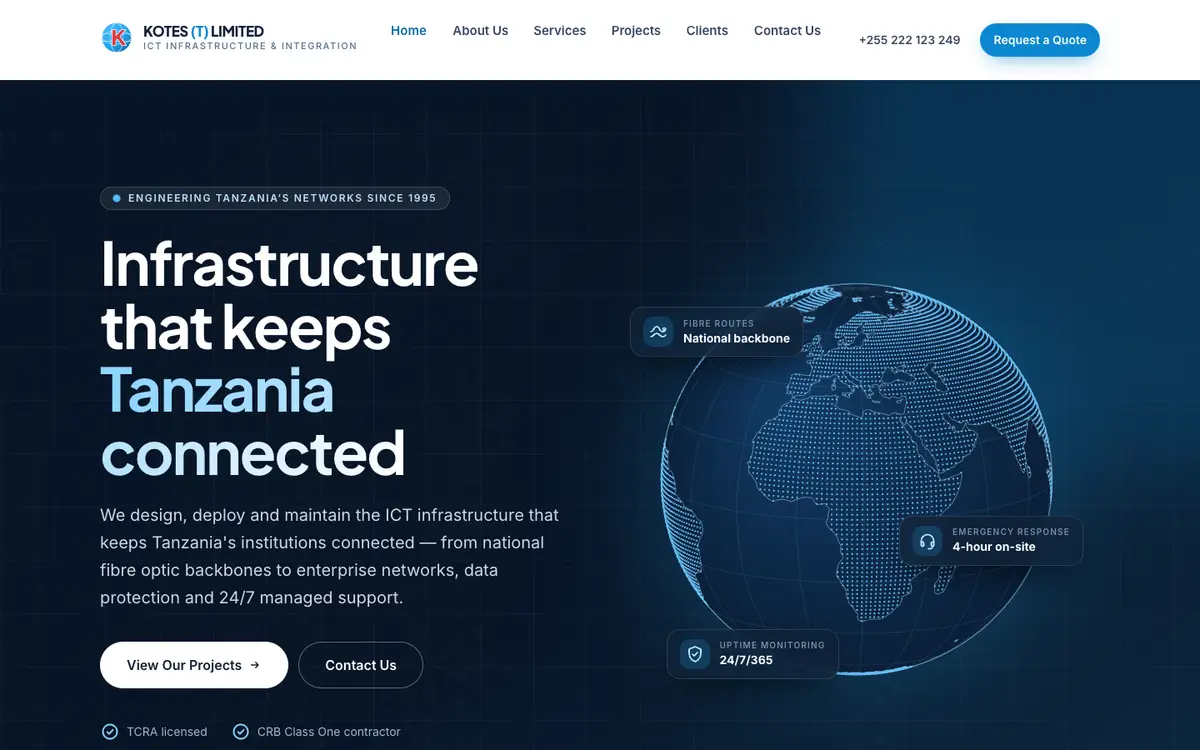
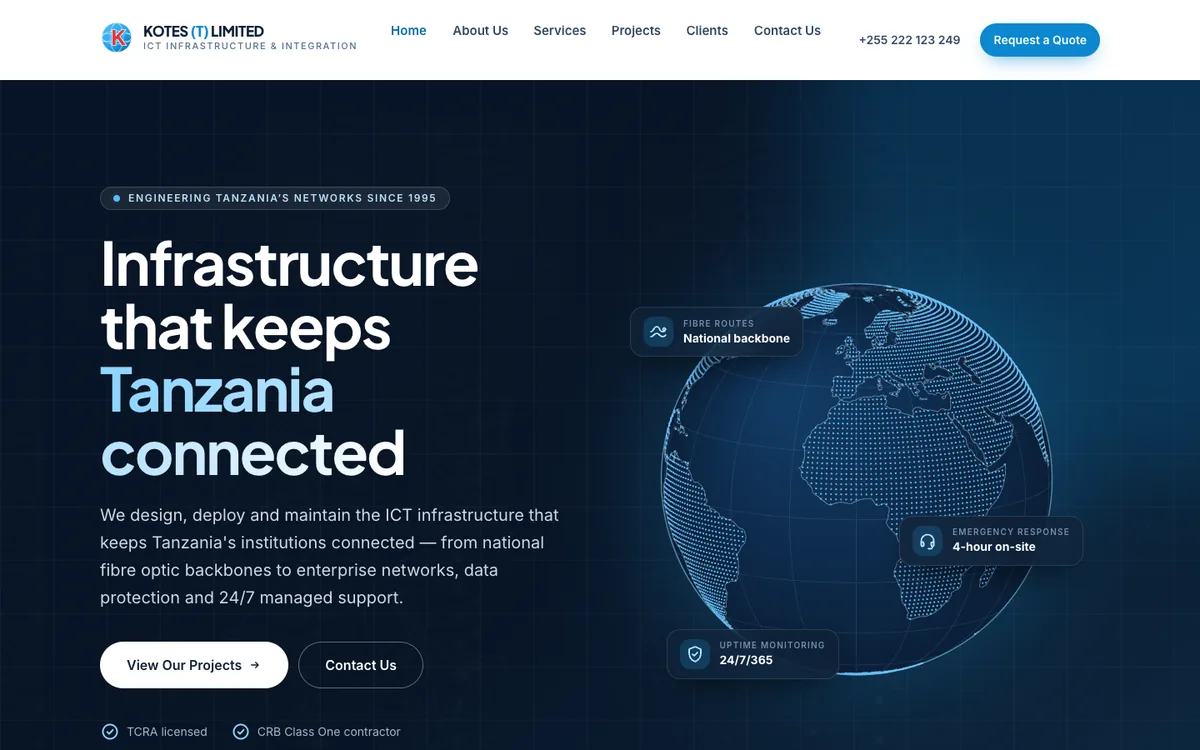
/nino: retake the twelve live site pictures (new ORA and the rest); real-time capture script

Changed region(s): [[0.6167, 0.368, 0.8942, 0.828], [0.5242, 0.4907, 0.6167, 0.828], [0.5858, 0.46, 0.6167, 0.4907]]

diff --git a/client/src/pages/nino.work.js b/client/src/pages/nino.work.js
@@ -4,9 +4,12 @@
  * Ported from the same list on the Vegas Luxury Hotel site
  * (Vegas/src/app/nino/work.ts) so the two cannot drift apart — every line
  * comes from the project's own live site or from Nino, nothing invented.
- * Screenshots in /public/nino are the live home pages, taken 2026-10-05;
- * Hao Labs and Super Drive were added 2026-11-09; BlueWave Cargo's picture
- * is its new sign-in page, also 2026-11-09.
+ * Screenshots in /public/nino are the live home pages. First taken 2026-10-05;
+ * Hao Labs and Super Drive were added 2026-11-09; BlueWave Cargo's picture is
+ * its new sign-in page, also 2026-11-09; the twelve live sites were all
+ * retaken 2026-11-10 (Nino: "it should show the new view of ORA and the other
+ * sites too") with `python3 docs/mockups/nino_shots.py` — run that again
+ * whenever a site changes its look.
  */
 
 const GH = 'https://github.com/Casynino';

diff --git a/docs/mockups/nino_shots.py b/docs/mockups/nino_shots.py
@@ -1,0 +1,76 @@
+"""Fresh screenshots of Nino's live sites, for the cards on /nino.
+
+Nino, 10 Nov 2026, looking at the page on his phone: the ORA picture (and the
+others) were the old look of the sites — "it should show the new view of ORA
+and the other sites too". The pictures in client/public/nino are the live home
+pages as they are NOW, so they are retaken, not edited.
+
+    python3 docs/mockups/nino_shots.py            # all twelve
+    python3 docs/mockups/nino_shots.py ora target # just those
+
+How: a separate, clean copy of Chrome (its own throw-away profile, so nothing of
+Nino's own browsing is touched) is driven in REAL time by nino_shots_capture.mjs:
+each public address is opened at 1440x900, the load event is waited for, then a
+few more seconds are given for intros to finish, then the picture is taken. (Chrome's
+own --screenshot flag runs the page on a made-up clock and photographs intros
+half-done.) Each picture is cut to 1200x750 (16:10 — the card crops from the top,
+object-cover object-top) and written as WebP into client/public/nino/. Only PUBLIC
+home pages: Hao Labs' own card is its sign-in screen, never a signed-in dashboard.
+
+The list below is the LIVE list in client/src/pages/nino.work.js — keep them in
+step.
+"""
+
+import os
+import subprocess
+import sys
+import tempfile
+
+from PIL import Image
+
+CHROME = "/Applications/Google Chrome.app/Contents/MacOS/Google Chrome"
+HERE = os.path.dirname(os.path.abspath(__file__))
+OUT = os.path.normpath(os.path.join(HERE, "..", "..", "client", "public", "nino"))
+
+# slug: (address, seconds to let the page settle after it has loaded). Most are
+# done at once. A few open with an intro — ORA counts to 100 behind a neon logo,
+# HA Group fades its words in, Reckless Lab shows a gate — and a picture taken
+# mid-intro is a picture of the loader, not of the site.
+SITES = {
+    "haolabs":    ("https://hao-stock.vercel.app/login", 6),
+    "vegas":      ("https://www.vegashoteltz.com", 8),
+    "superdrive": ("https://super-drive-os.vercel.app", 6),
+    "target":     ("https://targetexpressaircargo.com", 8),
+    "swiftcargo": ("https://www.swiftcargotz.com", 8),
+    "aitransit":  ("https://ai-transit-rouge.vercel.app", 8),
+    "eatradelink": ("https://www.eatradelink.com", 10),
+    "haodeals":   ("https://www.haodealtz.com", 6),
+    "hagroup":    ("https://hag-mancom.vercel.app", 10),
+    "kotes":      ("https://kotes.vercel.app", 8),
+    "ora":        ("https://www.ora.co.tz", 18),
+    "reckless":   ("https://www.recklesslab.shop", 14),
+}
+
+HERE_MJS = os.path.join(HERE, "nino_shots_capture.mjs")
+
+
+def main(only):
+    import json
+    raw_dir = tempfile.mkdtemp(prefix="nino-shots-")
+    todo = [{"slug": k, "url": u, "settle": t} for k, (u, t) in SITES.items() if not only or k in only]
+    print("raw captures in", raw_dir)
+    subprocess.run(["node", HERE_MJS, raw_dir, json.dumps(todo)], timeout=60 * len(todo) + 120)
+    for site in todo:
+        raw = os.path.join(raw_dir, f"{site['slug']}.png")
+        if not os.path.exists(raw):
+            print(f"  {site['slug']}: NO CAPTURE ({site['url']}) — the old picture is left as it was")
+            continue
+        im = Image.open(raw).convert("RGB")
+        im = im.crop((0, 0, im.width, min(im.height, round(im.width * 10 / 16)))).resize((1200, 750), Image.LANCZOS)
+        dest = os.path.join(OUT, f"{site['slug']}.webp")
+        im.save(dest, "WEBP", quality=82, method=6)
+        print(f"  {site['slug']}: {os.path.getsize(dest) // 1024} KB  <- {site['url']}")
+
+
+if __name__ == "__main__":
+    main(set(sys.argv[1:]))
